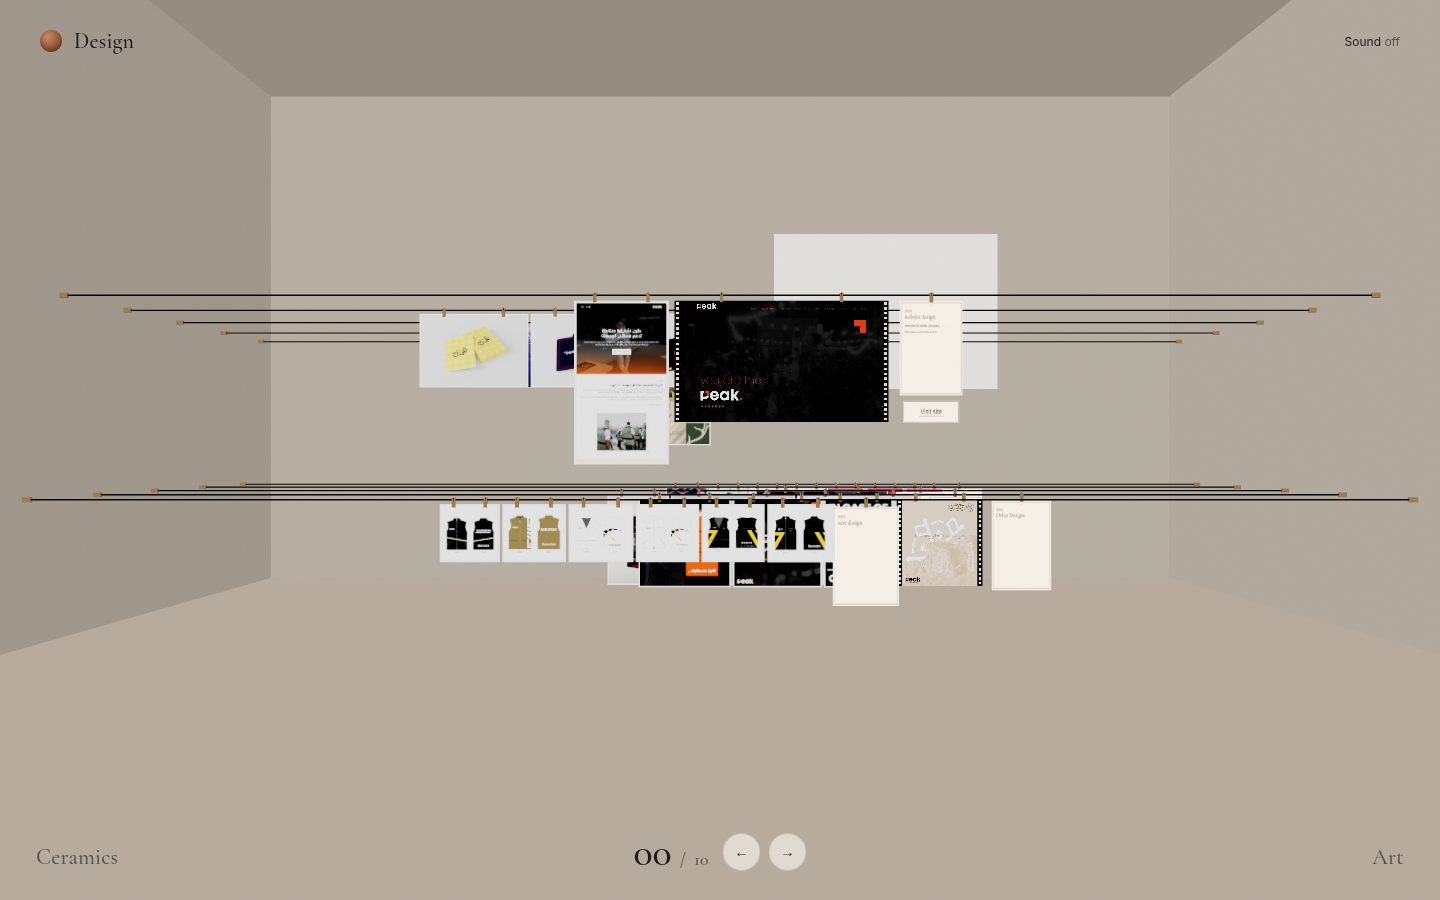
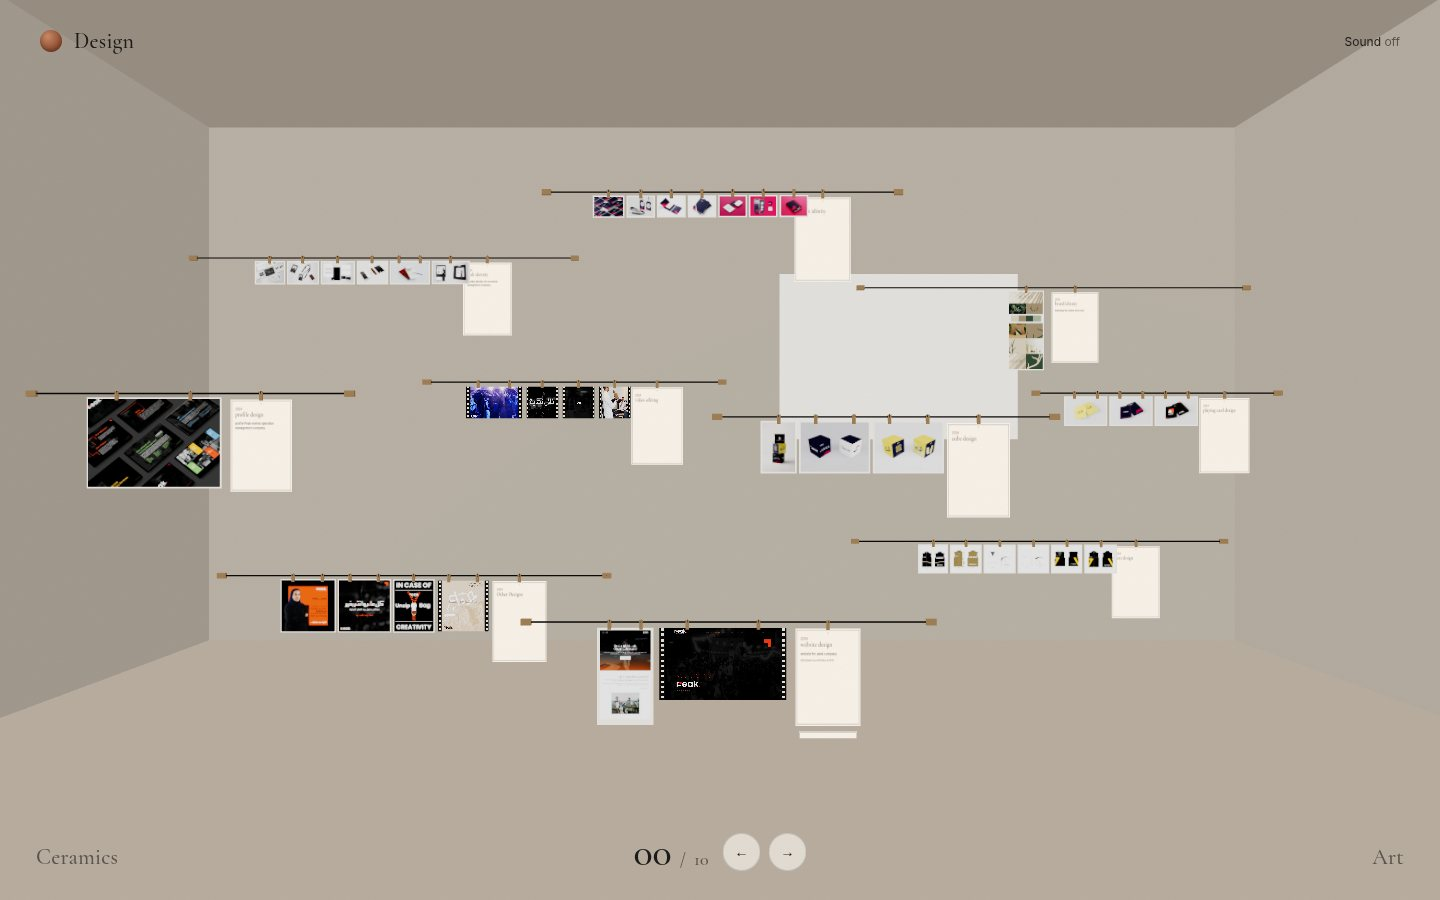
Spread the drying lines through the studio.
Each project keeps its own height, depth, and wire length so the sheets sit apart in the 00 view. Focusing a line still slides it forward in one move, with the swing and the white veil.

Changed region(s): [[0.0312, 0.1867, 0.9375, 0.84], [0.1875, 0.0, 1.0, 0.1556], [0.375, 0.1867, 0.4062, 0.2178]]

diff --git a/js/design.js b/js/design.js
@@ -1,18 +1,28 @@
 import * as THREE from 'three';
 
-// Design is a print studio. Ten lines are strung across the room, one project
-// each. The prints, the paper tag, and the pegs are what move: the chosen line
-// slides forward and the sheets swing once on their pegs, then settle. The
-// other lines step back under a white veil. 00 is the whole room. The camera
-// eases along with that slide and never cuts.
+// Design is a print studio. Ten lines are strung through the room, one project
+// each, at different heights, depths, and lengths so the whole studio reads
+// from 00 without the sheets covering one another. The chosen line slides
+// forward and the sheets swing once on their pegs, then settle. The other
+// lines step back under a white veil. The camera eases with that slide.
 
-const WIRE = 5.85;
-const UPPER_Y = 3.16;
-const LOWER_Y = 1.36;
-const UPPER_Z = [-6.55, -5.05, -3.55, -2.05, -0.55];
-const LOWER_Z = [-5.8, -4.3, -2.8, -1.3, 0.2];
-const SHIFTS = [-1.15, 0.95, -0.4, 1.15, -1.05, 0.45, -1.35, 0.85, 0.1, -0.75];
-const MAX_ROW = 3.2;
+// Each slot is the centre of one wire. span is half its length. maxW includes
+// the paper tag. The slots are staggered in x, y, and z so their sheets miss.
+const SLOTS = [
+  { x: -3.9, y: 4.7, z: -6.0, span: 2.2, maxW: 2.95, maxH: 0.9 },
+  { x: 0.0, y: 5.05, z: -3.5, span: 1.75, maxW: 2.55, maxH: 0.86 },
+  { x: 3.95, y: 4.42, z: -6.6, span: 2.3, maxW: 3.05, maxH: 0.92 },
+  { x: -4.85, y: 3.0, z: -2.2, span: 1.45, maxW: 2.2, maxH: 0.8 },
+  { x: -1.6, y: 3.22, z: -4.9, span: 1.6, maxW: 2.35, maxH: 0.84 },
+  { x: 1.45, y: 2.78, z: -1.85, span: 1.5, maxW: 2.2, maxH: 0.8 },
+  { x: 4.85, y: 3.12, z: -5.4, span: 1.35, maxW: 2.05, maxH: 0.78 },
+  { x: -3.2, y: 1.18, z: -4.2, span: 2.0, maxW: 2.75, maxH: 0.88 },
+  { x: 0.05, y: 1.0, z: -1.45, span: 1.75, maxW: 2.45, maxH: 0.84 },
+  { x: 3.7, y: 1.42, z: -6.2, span: 2.15, maxW: 2.8, maxH: 0.9 },
+];
+const TAG_W = 0.56;
+const TAG_GAP = 0.1;
+const TAG_EXTRA = TAG_GAP + TAG_W;
 const GAP = 0.05;
 const FRONT_Z = 2.35;
 
@@ -191,7 +201,7 @@ function itemsOf(project) {
   return (project.images || []).map((src) => ({ kind: 'image', src }));
 }
 
-function layoutPieces(items, maxH) {
+function layoutPieces(items, maxW, maxH) {
   if (!items.length) return { pieces: [], row: 0 };
   const n = items.length;
   const targetH = n >= 6 ? 0.72 : n >= 4 ? 0.88 : n === 1 ? 1.26 : 1.08;
@@ -203,7 +213,8 @@ function layoutPieces(items, maxH) {
   });
   let row = pieces.reduce((sum, p) => sum + p.w, 0) + GAP * Math.max(0, n - 1);
   const tallest = Math.max(...pieces.map((p) => p.h));
-  const fit = Math.min(1, MAX_ROW / Math.max(row, 0.01), maxH / Math.max(tallest, 0.01));
+  const rowMax = Math.max(0.4, maxW - TAG_EXTRA);
+  const fit = Math.min(1, rowMax / Math.max(row, 0.01), maxH / Math.max(tallest, 0.01));
   if (fit < 1) {
     pieces.forEach((p) => { p.w *= fit; p.h *= fit; });
     row *= fit;
@@ -279,7 +290,7 @@ export async function createDesign(renderer, { reduce, projects }) {
   );
   windowLight.position.set(2.3, 3.7, -8.32);
   scene.add(windowLight);
-  [-6.25, 6.25].forEach((x) => {
+  [-6.7, 6.7].forEach((x) => {
     const side = new THREE.Mesh(new THREE.PlaneGeometry(36, 7.2), wallMat);
     side.position.set(x, 3.35, 2);
     side.rotation.y = x < 0 ? Math.PI / 2 : -Math.PI / 2;
@@ -315,20 +326,20 @@ export async function createDesign(renderer, { reduce, projects }) {
   const videos = [];
 
   prepared.forEach((entry, index) => {
-    const upper = index % 2 === 0;
-    const tier = Math.floor(index / 2);
-    const home = new THREE.Vector3(0, upper ? UPPER_Y : LOWER_Y, (upper ? UPPER_Z : LOWER_Z)[tier]);
-    const maxH = upper ? 1.52 : 0.98;
-    const laid = layoutPieces(entry.items, maxH);
+    const slot = SLOTS[index] || SLOTS[SLOTS.length - 1];
+    const home = new THREE.Vector3(slot.x, slot.y, slot.z);
+    const laid = layoutPieces(entry.items, slot.maxW, slot.maxH);
+    const centerNudge = TAG_EXTRA / 2;
+    laid.pieces.forEach((piece) => { piece.x -= centerNudge; });
     const lineGroup = new THREE.Group();
     const cluster = new THREE.Group();
     lineGroup.add(cluster);
-    const wire = new THREE.Mesh(new THREE.CylinderGeometry(0.0065, 0.0065, WIRE * 2, 8), wireMat);
+    const wire = new THREE.Mesh(new THREE.CylinderGeometry(0.0065, 0.0065, slot.span * 2, 8), wireMat);
     wire.rotation.z = Math.PI / 2;
     lineGroup.add(wire);
-    [-WIRE, WIRE].forEach((x) => {
-      const cleat = new THREE.Mesh(new THREE.BoxGeometry(0.07, 0.045, 0.04), woodMat);
-      cleat.position.set(x, home.y, home.z);
+    [-slot.span, slot.span].forEach((x) => {
+      const cleat = new THREE.Mesh(new THREE.BoxGeometry(0.09, 0.055, 0.05), woodMat);
+      cleat.position.set(home.x + x, home.y, home.z);
       scene.add(cleat);
     });
 
@@ -441,9 +452,9 @@ export async function createDesign(renderer, { reduce, projects }) {
       }
     });
 
-    const tagW = 0.56;
+    const tagW = TAG_W;
     const tagH = 0.84;
-    const tagX = laid.row / 2 + 0.1 + tagW / 2;
+    const tagX = laid.row / 2 + TAG_GAP + tagW / 2 - centerNudge;
     const tagPivot = new THREE.Group();
     tagPivot.position.set(tagX, 0, 0.02);
     addPeg(tagPivot, 0);
@@ -471,7 +482,7 @@ export async function createDesign(renderer, { reduce, projects }) {
       bottom = Math.min(bottom, visit.position.y - visitH / 2);
     }
 
-    const left = -laid.row / 2;
+    const left = -laid.row / 2 - centerNudge;
     const right = tagX + tagW / 2;
     const veil = new THREE.Mesh(
       new THREE.PlaneGeometry(right - left + 0.28, -bottom + 0.18),
@@ -488,7 +499,6 @@ export async function createDesign(renderer, { reduce, projects }) {
     cluster.add(veil);
 
     lineGroup.position.copy(home);
-    cluster.position.x = SHIFTS[index] || 0;
     scene.add(lineGroup);
 
     const frontY = 1.5 - bottom / 2;
@@ -505,9 +515,10 @@ export async function createDesign(renderer, { reduce, projects }) {
       back: new THREE.Vector3(home.x, home.y, home.z - 1.2),
       from: home.clone(),
       to: home.clone(),
-      shiftHome: SHIFTS[index] || 0,
-      shiftFrom: SHIFTS[index] || 0,
-      shiftTo: SHIFTS[index] || 0,
+      wireHalf: slot.span,
+      shiftHome: 0,
+      shiftFrom: 0,
+      shiftTo: 0,
       scaleFrom: 1,
       scaleTo: 1,
       opFrom: 0,
@@ -551,15 +562,24 @@ export async function createDesign(renderer, { reduce, projects }) {
   }
 
   function overviewPose() {
-    let minY = 0.2;
-    let maxY = UPPER_Y + 0.2;
+    let minX = Infinity;
+    let maxX = -Infinity;
+    let minY = 0.08;
+    let maxY = 1;
+    let zSum = 0;
     lines.forEach((line) => {
-      minY = Math.min(minY, line.home.y + line.bottom);
-      maxY = Math.max(maxY, line.home.y + 0.08);
+      const x = line.home.x;
+      const y = line.home.y;
+      minX = Math.min(minX, x - line.wireHalf, x + line.left);
+      maxX = Math.max(maxX, x + line.wireHalf, x + line.right);
+      minY = Math.min(minY, y + line.bottom);
+      maxY = Math.max(maxY, y + 0.06);
+      zSum += line.home.z;
     });
-    const padX = narrow ? 0.15 : 0.45;
-    const padY = narrow ? 0.18 : 0.42;
-    fitPose(-WIRE - padX, WIRE + padX, minY - padY, maxY + padY, -2.9, narrow ? 0.94 : 0.84);
+    const lookZ = lines.length ? zSum / lines.length : -3;
+    const padX = narrow ? 0.18 : 0.32;
+    const padY = narrow ? 0.12 : 0.26;
+    fitPose(minX - padX, maxX + padX, minY - padY, maxY + padY, lookZ, narrow ? 0.93 : 0.88);
   }
 
   function focusPose(line) {
